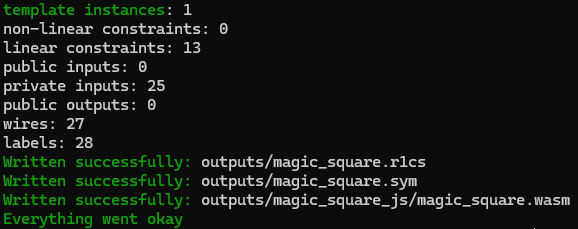
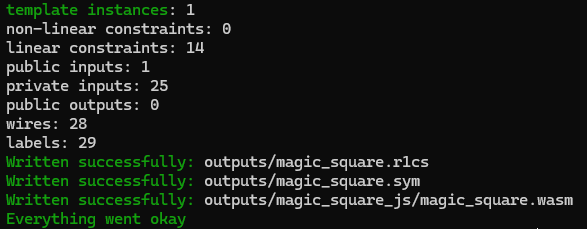
Modification for public dummy input

diff --git a/README.md b/README.md
@@ -221,8 +221,8 @@ Remember when I first mentioned R1CS?
 L, R and O are matrices that have `n` rows, where `n` is the amount of constraints, and `m` columns, where `m` is the amount of variables used in constraints + 1 (the constant variable).
 
 From the previous compilation output, whe can see that our L, R and O will have:
-- `13` rows (linear constraints).
-- `28` columns (labels).
+- `14` rows (linear constraints).
+- `29` columns (labels).
 
 Our witness vector `w`, will have just one column and as many rows as columns L, R and O have.
 
